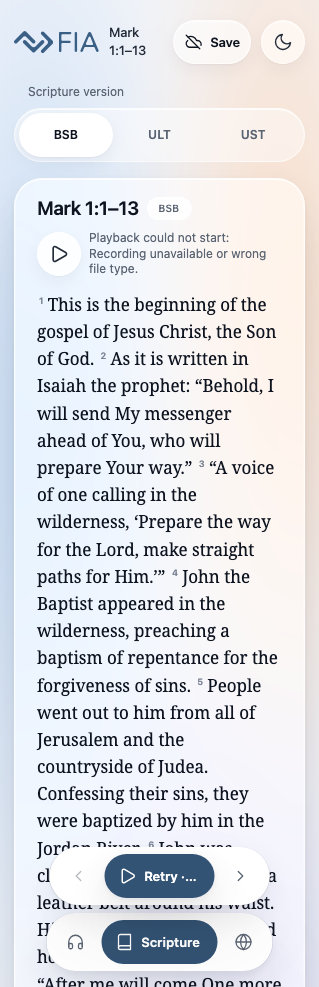
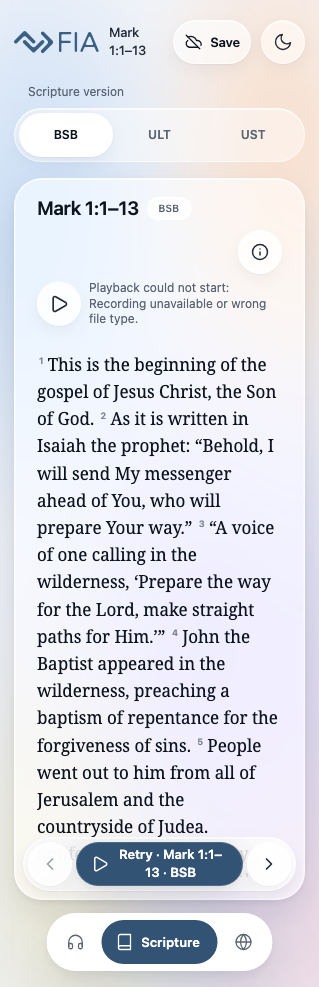
Update approved transport expectations and verify released Resources integration

diff --git a/tests/idle-player.spec.js b/tests/idle-player.spec.js
@@ -1,3 +1,3 @@
 import{test,expect}from'@playwright/test';test.use({serviceWorkers:'block'});
 test.beforeEach(async({page})=>{await page.addInitScript(()=>{localStorage.removeItem('fia.workspace.mark-1-1-13.v2');localStorage.removeItem('fia.session.mark-1-1-13.v1');});});
-test('ready context, real0.95rate, pause/resume and playing exploration remain truthful',async({page})=>{await page.addInitScript(()=>{const Native=window.Audio;window.Audio=class extends Native{constructor(...a){super(...a);window.__audio=this;}}});for(const width of[326,726]){await page.setViewportSize({width,height:987});await page.goto('/');const d=page.locator('.app-content :is(.card-transport-footer,.playback-dock) .compact-transport');await expect(d.getByRole('button',{name:/^Play .*1 of 8$/})).toBeVisible();await page.getByRole('tab',{name:'Scripture',exact:true}).click();await expect(d.getByRole('button',{name:'Play Mark 1:1–13 · BSB'})).toBeVisible();await d.getByRole('button',{name:'Play Mark 1:1–13 · BSB'}).click();await expect(d.getByRole('button',{name:'Pause Now playing'})).toBeVisible();await expect.poll(()=>page.evaluate(()=>window.__audio?[window.__audio.playbackRate,window.__audio.preservesPitch]:null)).toEqual([.95,true]);await d.getByRole('button',{name:'Pause Now playing'}).click();await expect(d.getByRole('button',{name:'Resume Now playing'})).toBeVisible();await d.getByRole('button',{name:'Resume Now playing'}).click();await page.getByRole('button',{name:'Restart Scripture BSB'}).click();expect(await page.evaluate(()=>window.__audio.playbackRate)).toBe(.95);await page.getByRole('tab',{name:'Resources',exact:true}).click();await expect(d.getByRole('button',{name:'Pause Now playing'})).toContainText('BSB');await d.getByRole('button',{name:'Pause Now playing'}).click();await page.getByRole('tab',{name:'Guide',exact:true}).click();await expect(d.getByRole('button',{name:/^Play .*1 of 8$/})).toBeVisible();await page.getByRole('tab',{name:'Resources',exact:true}).click();await expect(d.getByRole('button',{name:'Choose resource'})).toBeVisible();await page.getByRole('button',{name:'Open heaven term',exact:true}).click();await expect(page.getByRole('dialog').locator('.dialog-transport-footer').getByRole('button',{name:'Play heaven',exact:true})).toHaveCount(1);await page.keyboard.press('Escape');await expect(d.getByRole('button',{name:'Play heaven',exact:true})).toBeVisible();await expect.poll(()=>page.evaluate(()=>document.documentElement.scrollWidth<=innerWidth)).toBe(true);await page.screenshot({path:`evidence/idle-player/ready-${width}.png`,fullPage:true});}});
+test('ready context, real0.95rate, pause/resume and playing exploration remain truthful',async({page})=>{await page.addInitScript(()=>{const Native=window.Audio;window.Audio=class extends Native{constructor(...a){super(...a);window.__audio=this;}}});for(const width of[326,726]){await page.setViewportSize({width,height:987});await page.goto('/');const d=page.locator('.app-content :is(.card-transport-footer,.playback-dock) .compact-transport');await expect(d.getByRole('button',{name:/^Play .*1\/8$/})).toBeVisible();await page.getByRole('tab',{name:'Scripture',exact:true}).click();await expect(d.getByRole('button',{name:'Play Mark 1:1–13 · BSB'})).toBeVisible();await d.getByRole('button',{name:'Play Mark 1:1–13 · BSB'}).click();await expect(d.getByRole('button',{name:'Pause Now playing'})).toBeVisible();await expect.poll(()=>page.evaluate(()=>window.__audio?[window.__audio.playbackRate,window.__audio.preservesPitch]:null)).toEqual([.95,true]);await d.getByRole('button',{name:'Pause Now playing'}).click();await expect(d.getByRole('button',{name:'Resume Now playing'})).toBeVisible();await d.getByRole('button',{name:'Resume Now playing'}).click();await page.getByRole('button',{name:'Restart Scripture BSB'}).click();expect(await page.evaluate(()=>window.__audio.playbackRate)).toBe(.95);await page.getByRole('tab',{name:'Resources',exact:true}).click();await expect(d.getByRole('button',{name:'Pause Now playing'})).toContainText('BSB');await d.getByRole('button',{name:'Pause Now playing'}).click();await page.getByRole('tab',{name:'Guide',exact:true}).click();await expect(d.getByRole('button',{name:/^Play .*1\/8$/})).toBeVisible();await page.getByRole('tab',{name:'Resources',exact:true}).click();await expect(d.getByRole('button',{name:'Choose resource'})).toBeVisible();await page.getByRole('button',{name:'Open heaven term',exact:true}).click();await expect(page.getByRole('dialog').locator('.dialog-transport-footer').getByRole('button',{name:'Play heaven',exact:true})).toHaveCount(1);await page.keyboard.press('Escape');await expect(d.getByRole('button',{name:'Play heaven',exact:true})).toBeVisible();await expect.poll(()=>page.evaluate(()=>document.documentElement.scrollWidth<=innerWidth)).toBe(true);await page.screenshot({path:`evidence/idle-player/ready-${width}.png`,fullPage:true});}});

diff --git a/tests/error-dock.spec.js b/tests/error-dock.spec.js
@@ -1,3 +1,3 @@
 import{test,expect}from'@playwright/test';test.use({serviceWorkers:'block'});
 test.beforeEach(async({page})=>{await page.addInitScript(()=>{localStorage.removeItem('fia.workspace.mark-1-1-13.v2');localStorage.removeItem('fia.session.mark-1-1-13.v1');});});
-test('real404 compact Retry is source-scoped accessible and recovers in both themes',async({page})=>{for(const width of[319,627,726])for(const dark of[false,true]){await page.setViewportSize({width,height:987});await page.goto('/');if(dark)await page.getByRole('button',{name:'Switch to dark theme'}).click();await page.route('**/audio/mark-1-1-13/scripture-BereanStandardBible.mp3',r=>r.fulfill({status:404,body:'missing'}));await page.getByRole('tab',{name:'Scripture',exact:true}).click();await page.getByRole('button',{name:'Play Scripture BSB',exact:true}).click();const dock=page.locator('.app-content :is(.card-transport-footer,.playback-dock) .compact-transport'),retry=dock.getByRole('button',{name:'Retry Mark 1:1–13 · BSB'});await expect(retry).toBeVisible();await expect(retry).toHaveAccessibleDescription(/Playback could not start/);await page.mouse.move(0,500);expect((await dock.boundingBox()).height).toBeLessThanOrEqual(60);expect((await dock.boundingBox()).width).toBeLessThanOrEqual((await dock.locator('..').boundingBox()).width+1);await expect(dock.getByRole('button')).toHaveCount(3);const previous=dock.getByRole('button',{name:'Previous Scripture version'});await expect(previous).toHaveCSS('background-color','rgba(0, 0, 0, 0)');await expect(previous).toHaveCSS('border-top-width','0px');await expect(previous).toHaveCSS('padding-left','13px');await expect(retry).toHaveCSS('padding-left','14px');await expect(retry).toHaveCSS('padding-right','18px');await expect(previous.locator('svg')).toHaveAttribute('width','18');for(const b of await dock.getByRole('button').all())expect((await b.boundingBox()).height).toBeGreaterThanOrEqual(44);await page.screenshot({path:`evidence/error-dock/${dark?'dark':'light'}-${width}.png`});await page.unroute('**/audio/mark-1-1-13/scripture-BereanStandardBible.mp3');await retry.click();await expect(dock.getByRole('button',{name:'Pause Now playing'})).toBeVisible();await page.getByRole('tab',{name:'Guide',exact:true}).click();await expect(dock.getByRole('button',{name:/Retry/})).toHaveCount(0);}});
+test('real404 compact Retry is source-scoped accessible and recovers in both themes',async({page})=>{for(const width of[319,627,726])for(const dark of[false,true]){await page.setViewportSize({width,height:987});await page.goto('/');if(dark)await page.getByRole('button',{name:'Switch to dark theme'}).click();await page.route('**/audio/mark-1-1-13/scripture-BereanStandardBible.mp3',r=>r.fulfill({status:404,body:'missing'}));await page.getByRole('tab',{name:'Scripture',exact:true}).click();await page.getByRole('button',{name:'Play Scripture BSB',exact:true}).click();const dock=page.locator('.app-content :is(.card-transport-footer,.playback-dock) .compact-transport'),retry=dock.getByRole('button',{name:'Retry Mark 1:1–13 · BSB'});await expect(retry).toBeVisible();await expect(retry).toHaveAccessibleDescription(/Playback could not start/);await page.mouse.move(0,500);expect((await dock.boundingBox()).height).toBeLessThanOrEqual(60);expect((await dock.boundingBox()).width).toBeLessThanOrEqual((await dock.locator('..').boundingBox()).width+1);await expect(dock.getByRole('button')).toHaveCount(3);const previous=dock.getByRole('button',{name:'Previous Scripture version'});await expect(previous).toHaveCSS('background-color',dark?'rgba(255, 255, 255, 0.14)':'rgba(255, 255, 255, 0.62)');await expect(previous).toHaveCSS('border-top-style','solid');await expect(previous).toHaveCSS('width','44px');await expect(retry).toHaveCSS('padding-left','14px');await expect(retry).toHaveCSS('padding-right','18px');await expect(previous.locator('svg')).toHaveAttribute('width','20');for(const b of await dock.getByRole('button').all())expect((await b.boundingBox()).height).toBeGreaterThanOrEqual(44);await page.screenshot({path:`evidence/error-dock/${dark?'dark':'light'}-${width}.png`});await page.unroute('**/audio/mark-1-1-13/scripture-BereanStandardBible.mp3');await retry.click();await expect(dock.getByRole('button',{name:'Pause Now playing'})).toBeVisible();await page.getByRole('tab',{name:'Guide',exact:true}).click();await expect(dock.getByRole('button',{name:/Retry/})).toHaveCount(0);}});

diff --git a/evidence/inset-glass/release-integration/RETURN.md b/evidence/inset-glass/release-integration/RETURN.md
@@ -1,0 +1,7 @@
+# Release integration63 return
+
+Merged released main06ddcbb into shared candidate4442e7f as83a4842. Conflicts: UPSTREAM.md kept both adaptation provenance paragraphs; app.css retains shared wrapping/compact glass and main row-major grid, single-column breakpoint, aurora overflow:clip and card-action pointer boundaries; DEPLOYABLE-INVENTORY regenerated by strict build. ResourceCard source equals released main; audio/source semantics unchanged. Three pre-existing modified contextual screenshots left outside cargo, provenance from earlier contextual test execution.
+
+Approved stale test corrections: idle visible counter1of8→1/8; error-dock actual secondary material now light/dark glassfill3, solid border,44px target and20glyph instead of transparent/zero-border/13padding/18glyph. All real404/retry/accessibility/native ownership/rate/navigation assertions retained.41unitPASS; affected2browserPASS6.7seconds; strict build197allowlistedfiles/172unchangedMP3s.195packfiles93,577,888bytes; dist93,626,667bytes. Existing4761 preview serves rebuilt integrated dist. Diff whitespace check clean.
+
+User DEPLOY authority with root acceptance keeps dark Scripture secondary contrast explicitly OPEN follow-up; this integration adds no contrast or nested work. Independent exact-head review and CI remain before merge. No merge/deployment by author. Conservative author upper3active minutes of unused3integration allocation consumed; prior58 retained,total63. No reset.
